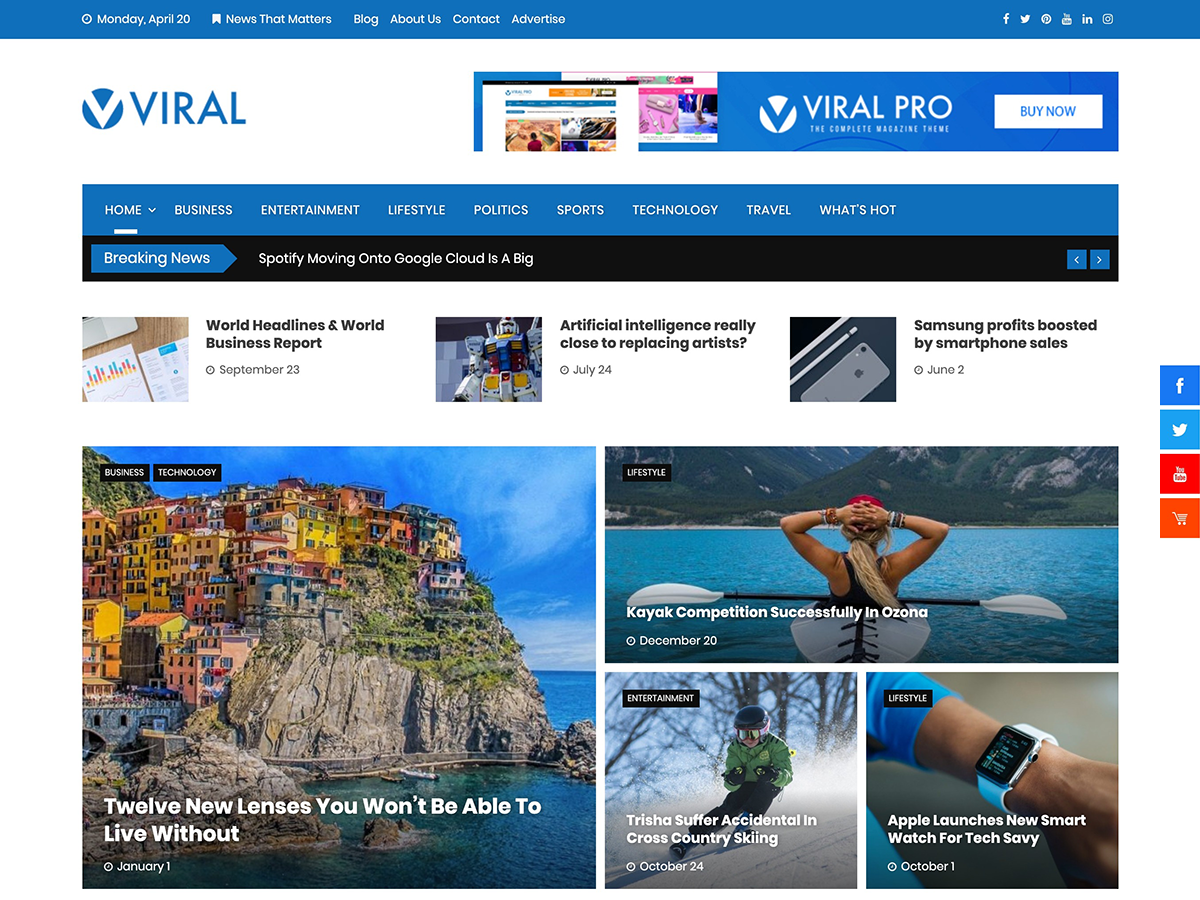
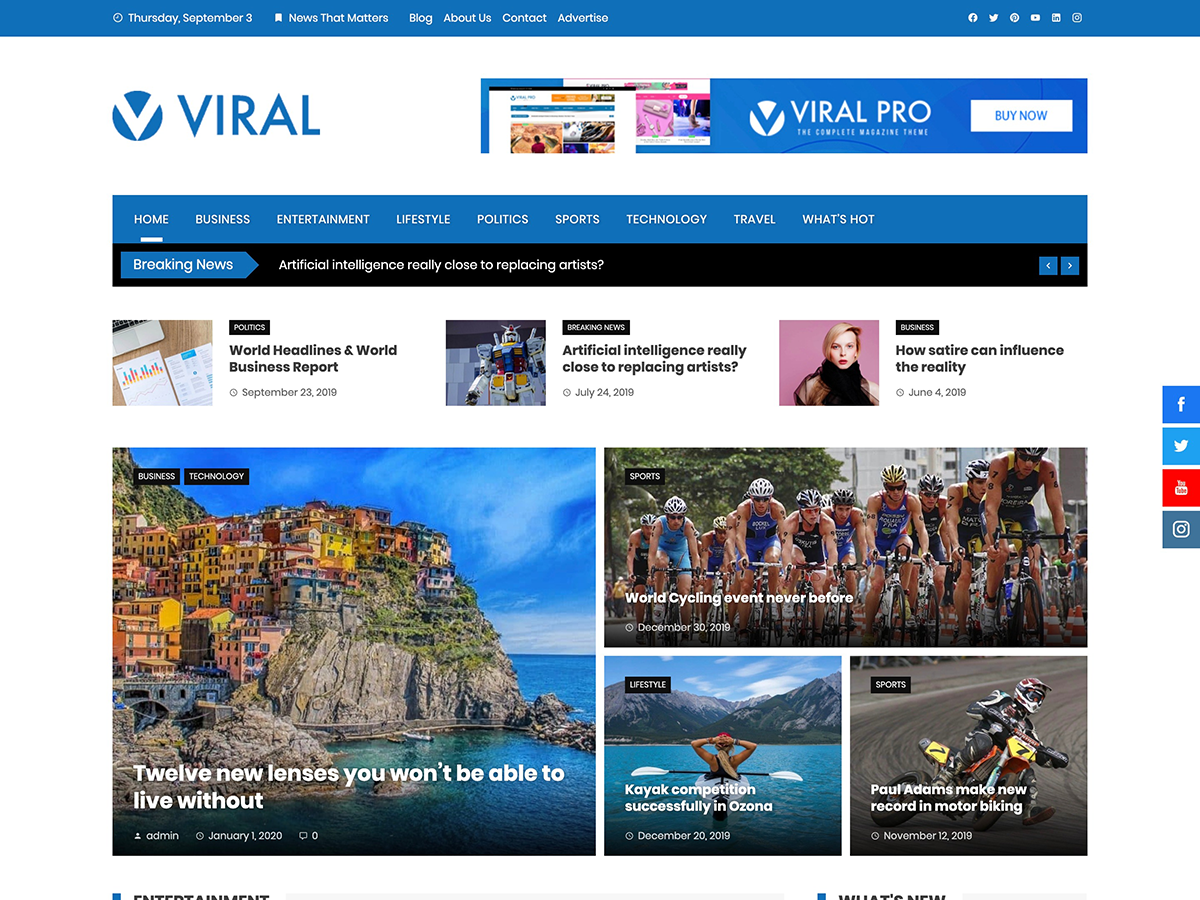
Merge origin/master
Conflicts:
	modules/news-module-eleven/widgets/news-module-eleven.php
	readme.txt

diff --git a/style.css b/style.css
@@ -4,7 +4,7 @@ Theme URI: https://hashthemes.com/wordpress-theme/viral/
 Author: HashThemes
 Author URI: https://hashthemes.com
 Description: Viral is a responsive magazine and news WordPress theme designed for magazine, newspaper, news portals, publishing, personal blogs, professional blogs, corporate blogs, gaming magazines, review sites, and editorial style websites. The theme supports the Elementor page builder plugin. Using it, you can create the website of your imagination. The theme has 20+ uniquely designed news/magazine elements for Elementor that you can shuffle to create a unique looking website. Most importantly, the theme is SEO friendly that will help you rank quickly in all search engines. The theme is also WPML, Gutenberg, translation, and RTL ready. There are five different built-in widgets in the theme that can be used in the sidebar and footers. Moreover, the theme is built in the customizer that enables you to set up your website with live preview. For more ease, the demos website can be imported with just one click. Check demos  https://demo.hashthemes.com/viral/
-Version: 1.5.9
+Version: 1.6.0
 License: GNU General Public License v2 or later
 License URI: http://www.gnu.org/licenses/gpl-2.0.html
 Text Domain: viral
@@ -1441,7 +1441,7 @@ object {
 }
 
 .vl-header{
-    padding: 25px 0;
+    padding: 50px 0;
 }
 
 .vl-header .vl-container{
@@ -1455,6 +1455,10 @@ object {
 #vl-site-branding{
     float: left;
     padding: 10px 0;
+}
+
+#vl-site-branding.vl-center-logo{
+    margin: 0 auto;
 }
 
 .vl-site-title{
@@ -1480,7 +1484,6 @@ object {
 }
 
 .vl-header-ads{
-    padding: 12px 0;
     float: right;
     margin-left: 20px;
 }

diff --git a/inc/extras.php b/inc/extras.php
@@ -279,6 +279,9 @@ function viral_premium_demo_config($demos) {
             'preview_url' => 'https://demo.hashthemes.com/viral-pro/magazine/',
             'tags' => array(
                 'premium' => 'Premium'
+            ),
+            'pagebuilder' => array(
+                'customizer' => 'Customizer'
             )
         ),
         'news' => array(
@@ -289,6 +292,9 @@ function viral_premium_demo_config($demos) {
             'preview_url' => 'https://demo.hashthemes.com/viral-pro/news/',
             'tags' => array(
                 'premium' => 'Premium'
+            ),
+            'pagebuilder' => array(
+                'customizer' => 'Customizer'
             )
         ),
         'viral-news-one' => array(
@@ -299,6 +305,9 @@ function viral_premium_demo_config($demos) {
             'preview_url' => 'https://demo.hashthemes.com/viral-pro/viral-news-one/',
             'tags' => array(
                 'premium' => 'Premium'
+            ),
+            'pagebuilder' => array(
+                'customizer' => 'Customizer'
             )
         ),
         'viral-news-two' => array(
@@ -309,6 +318,9 @@ function viral_premium_demo_config($demos) {
             'preview_url' => 'https://demo.hashthemes.com/viral-pro/viral-news-two/',
             'tags' => array(
                 'premium' => 'Premium'
+            ),
+            'pagebuilder' => array(
+                'customizer' => 'Customizer'
             )
         ),
         'viral-news-three' => array(
@@ -319,6 +331,9 @@ function viral_premium_demo_config($demos) {
             'preview_url' => 'https://demo.hashthemes.com/viral-pro/viral-news-three/',
             'tags' => array(
                 'premium' => 'Premium'
+            ),
+            'pagebuilder' => array(
+                'customizer' => 'Customizer'
             )
         ),
         'viral-news-four' => array(
@@ -329,6 +344,9 @@ function viral_premium_demo_config($demos) {
             'preview_url' => 'https://demo.hashthemes.com/viral-pro/viral-news-four/',
             'tags' => array(
                 'premium' => 'Premium'
+            ),
+            'pagebuilder' => array(
+                'customizer' => 'Customizer'
             )
         ),
         'sports' => array(
@@ -339,6 +357,9 @@ function viral_premium_demo_config($demos) {
             'preview_url' => 'https://demo.hashthemes.com/viral-pro/sports/',
             'tags' => array(
                 'premium' => 'Premium'
+            ),
+            'pagebuilder' => array(
+                'customizer' => 'Customizer'
             )
         ),
         'technology' => array(
@@ -349,6 +370,9 @@ function viral_premium_demo_config($demos) {
             'preview_url' => 'https://demo.hashthemes.com/viral-pro/technology/',
             'tags' => array(
                 'premium' => 'Premium'
+            ),
+            'pagebuilder' => array(
+                'customizer' => 'Customizer'
             )
         ),
         'illustration' => array(
@@ -359,6 +383,9 @@ function viral_premium_demo_config($demos) {
             'preview_url' => 'https://demo.hashthemes.com/viral-pro/illustration/',
             'tags' => array(
                 'premium' => 'Premium'
+            ),
+            'pagebuilder' => array(
+                'customizer' => 'Customizer'
             )
         ),
         'fashion' => array(
@@ -369,6 +396,9 @@ function viral_premium_demo_config($demos) {
             'preview_url' => 'https://demo.hashthemes.com/viral-pro/fashion/',
             'tags' => array(
                 'premium' => 'Premium'
+            ),
+            'pagebuilder' => array(
+                'customizer' => 'Customizer'
             )
         ),
         'travel' => array(
@@ -379,6 +409,9 @@ function viral_premium_demo_config($demos) {
             'preview_url' => 'https://demo.hashthemes.com/viral-pro/travel/',
             'tags' => array(
                 'premium' => 'Premium'
+            ),
+            'pagebuilder' => array(
+                'customizer' => 'Customizer'
             )
         ),
         'rtl' => array(
@@ -389,13 +422,14 @@ function viral_premium_demo_config($demos) {
             'preview_url' => 'https://demo.hashthemes.com/viral-pro/rtl/',
             'tags' => array(
                 'premium' => 'Premium'
+            ),
+            'pagebuilder' => array(
+                'customizer' => 'Customizer'
             )
-    ));
+        )
+    );
 
     $demos = array_merge($demos, $premium_demos);
-
-    $demos['main']['tags']['free'] = "Free";
-
     return $demos;
 }
 

diff --git a/inc/widgets/widget-personal-info.php b/inc/widgets/widget-personal-info.php
@@ -79,7 +79,7 @@ class viral_personal_info extends WP_Widget {
                 if ($image_id) {
                     $image_array = wp_get_attachment_image_src($image_id, 'thumbnail');
                     echo '<div class="vl-pi-image"><img alt="' . esc_html($title) . '" src="' . esc_url($image_array[0]) . '"/></div>';
-                }else{
+                } else {
                     echo '<div class="vl-pi-image"><img alt="' . esc_html($title) . '" src="' . esc_url($image) . '"/></div>';
                 }
             endif;
@@ -119,8 +119,9 @@ class viral_personal_info extends WP_Widget {
 
             extract($widget_field);
 
+            $new = isset($new_instance[$viral_widgets_name]) ? $new_instance[$viral_widgets_name] : '';
             // Use helper function to get updated field values
-            $instance[$viral_widgets_name] = viral_widgets_updated_field_value($widget_field, $new_instance[$viral_widgets_name]);
+            $instance[$viral_widgets_name] = viral_widgets_updated_field_value($widget_field, $new);
         }
 
         return $instance;

diff --git a/header.php b/header.php
@@ -52,7 +52,14 @@
 
                 <div class="vl-header">
                     <div class="vl-container">
-                        <div id="vl-site-branding">
+                        <?php
+                        if (!is_active_sidebar('viral-header-ads')) {
+                            $branding_class = 'vl-center-logo';
+                        } else {
+                            $branding_class = '';
+                        }
+                        ?>
+                        <div id="vl-site-branding" class="<?php echo esc_attr($branding_class); ?>">
                             <?php
                             if (function_exists('has_custom_logo') && has_custom_logo()) :
                                 the_custom_logo();

diff --git a/inc/customizer.php b/inc/customizer.php
@@ -59,7 +59,7 @@ function viral_customize_register($wp_customize) {
     ));
 
     $wp_customize->get_section('static_front_page')->priority = 1;
-    $wp_customize->get_section('title_tagline')->panel = 'viral_general_settings_panel';
+    $wp_customize->get_section('title_tagline')->panel = 'viral_header_setting_panel';
     $wp_customize->get_section('title_tagline')->title = esc_html__('Site Logo, Title and Tagline', 'viral');
     $wp_customize->get_control('header_text')->label = esc_html__('Display Site Title and Tagline(Only Displays if Logo is Removed)', 'viral');
     $wp_customize->get_section('colors')->panel = 'viral_general_settings_panel';

diff --git a/inc/widgets/widget-advertisement.php b/inc/widgets/widget-advertisement.php
@@ -117,9 +117,9 @@ class viral_advertisement extends WP_Widget {
         foreach ($widget_fields as $widget_field) {
 
             extract($widget_field);
-
+            $new = isset($new_instance[$viral_widgets_name]) ? $new_instance[$viral_widgets_name] : '';
             // Use helper function to get updated field values
-            $instance[$viral_widgets_name] = viral_widgets_updated_field_value($widget_field, $new_instance[$viral_widgets_name]);
+            $instance[$viral_widgets_name] = viral_widgets_updated_field_value($widget_field, $new);
         }
 
         return $instance;

diff --git a/inc/widgets/widget-category-block.php b/inc/widgets/widget-category-block.php
@@ -148,8 +148,9 @@ class viral_category_block extends WP_Widget {
 
             extract($widget_field);
 
+            $new = isset($new_instance[$viral_widgets_name]) ? $new_instance[$viral_widgets_name] : '';
             // Use helper function to get updated field values
-            $instance[$viral_widgets_name] = viral_widgets_updated_field_value($widget_field, $new_instance[$viral_widgets_name]);
+            $instance[$viral_widgets_name] = viral_widgets_updated_field_value($widget_field, $new);
         }
 
         return $instance;

diff --git a/inc/widgets/widget-contact-info.php b/inc/widgets/widget-contact-info.php
@@ -136,8 +136,9 @@ class viral_contact_info extends WP_Widget {
 
             extract($widget_field);
 
+            $new = isset($new_instance[$viral_widgets_name]) ? $new_instance[$viral_widgets_name] : '';
             // Use helper function to get updated field values
-            $instance[$viral_widgets_name] = viral_widgets_updated_field_value($widget_field, $new_instance[$viral_widgets_name]);
+            $instance[$viral_widgets_name] = viral_widgets_updated_field_value($widget_field, $new);
         }
 
         return $instance;

diff --git a/inc/widgets/widget-timeline.php b/inc/widgets/widget-timeline.php
@@ -132,8 +132,9 @@ class viral_timeline extends WP_Widget {
 
             extract($widget_field);
 
+            $new = isset($new_instance[$viral_widgets_name]) ? $new_instance[$viral_widgets_name] : '';
             // Use helper function to get updated field values
-            $instance[$viral_widgets_name] = viral_widgets_updated_field_value($widget_field, $new_instance[$viral_widgets_name]);
+            $instance[$viral_widgets_name] = viral_widgets_updated_field_value($widget_field, $new);
         }
 
         return $instance;

diff --git a/inc/widgets/widget-fields.php b/inc/widgets/widget-fields.php
@@ -178,6 +178,12 @@ function viral_widgets_updated_field_value($widget_field, $new_field_value) {
         // No allowed tags for all other fields
     } elseif ($viral_widgets_field_type == 'url') {
         return esc_url_raw($new_field_value);
+    } elseif ($viral_widgets_field_type == 'checkbox') {
+        if ($new_field_value) {
+            return '1';
+        } else {
+            return '0';
+        }
     } else {
         return strip_tags($new_field_value);
     }

diff --git a/functions.php b/functions.php
@@ -6,7 +6,7 @@
  * @package Viral
  */
 if (!defined('VIRAL_VERSION')) {
-    define('VIRAL_VERSION', '1.5.9');
+    define('VIRAL_VERSION', '1.6.0');
 }
 
 if (!function_exists('viral_setup')) :
@@ -234,6 +234,8 @@ function viral_admin_scripts() {
 }
 
 add_action('admin_enqueue_scripts', 'viral_admin_scripts');
+
+add_action('elementor/editor/before_enqueue_scripts', 'viral_admin_scripts');
 
 if (!function_exists('wp_body_open')) {
 
